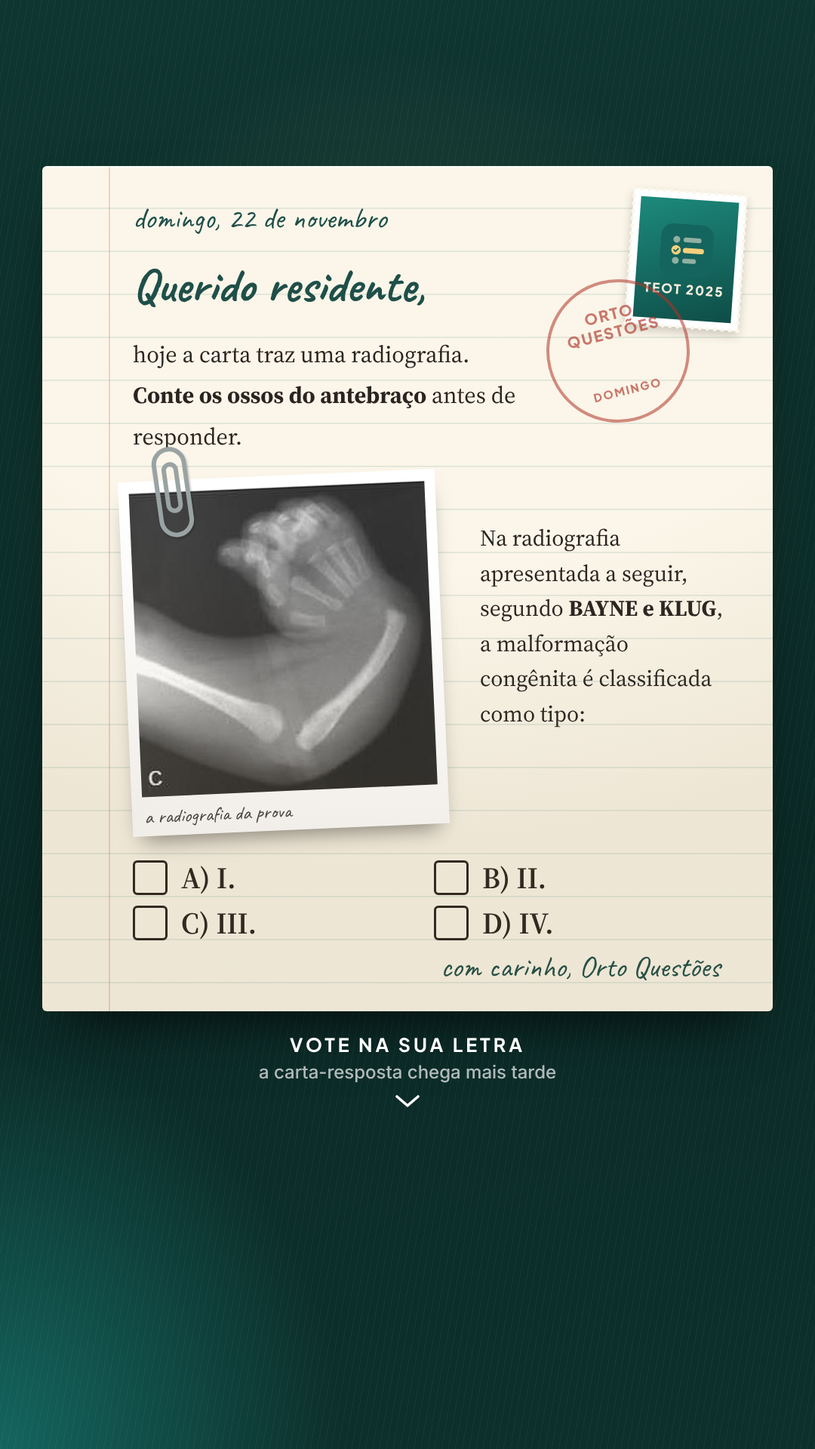
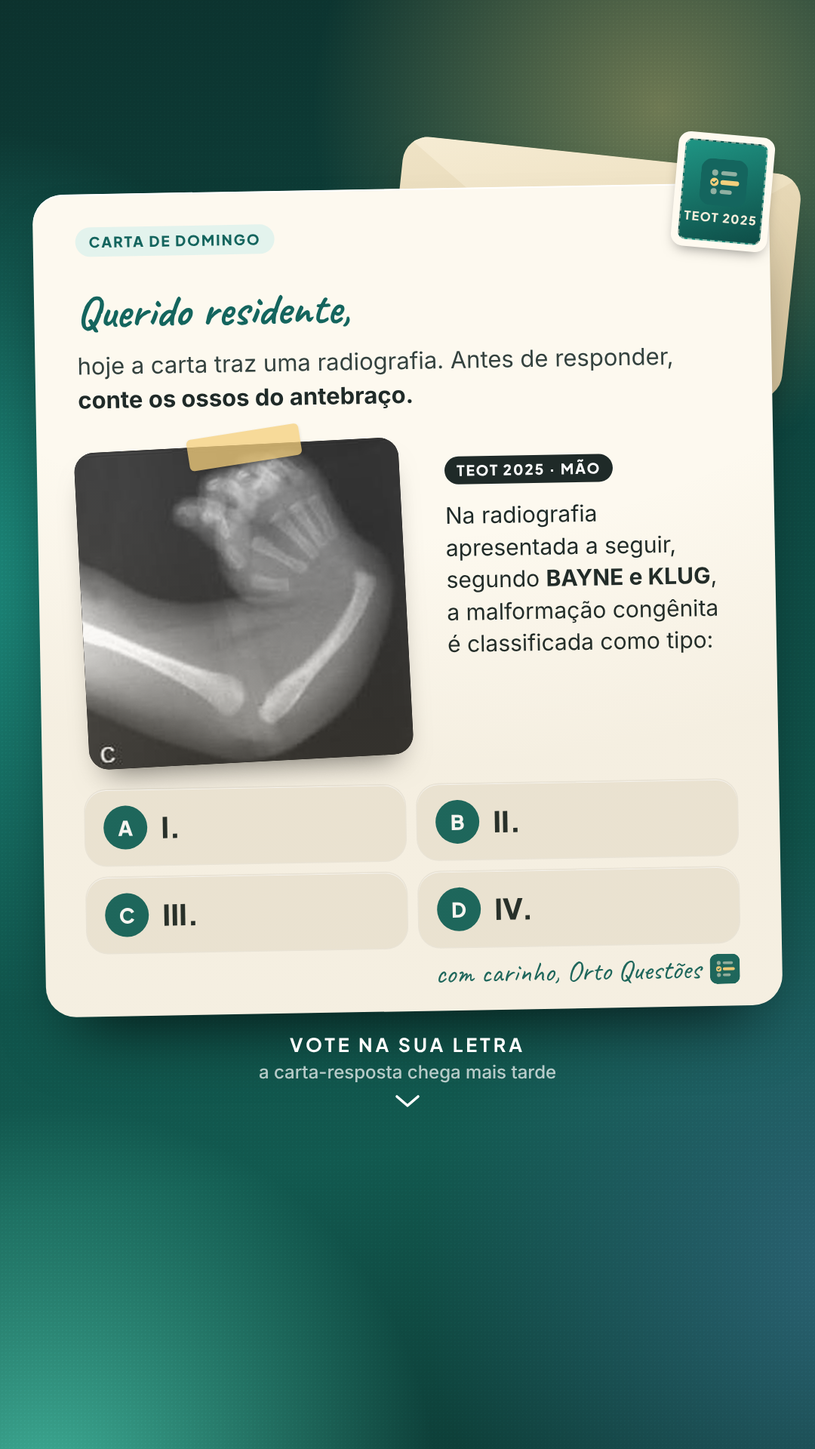
Carta de domingo refeita do zero e 3º story de propaganda com telas do site
Claude-Session: https://claude.ai/code/session_01GbKh11zCitYpbRvWcxSxNK

diff --git a/marketing/instagram/posts/2026-11-22-carta-bayne-klug/stories.html b/marketing/instagram/posts/2026-11-22-carta-bayne-klug/stories.html
@@ -1,52 +1,98 @@
 <!doctype html>
-<html lang="pt-BR"><head><meta charset="utf-8"><title>Carta de domingo — deficiência radial, BAYNE e KLUG, TEOT 2025 (stories)</title>
-<!-- Stories com alternativas (guia: estilos/STORIES-COM-ALTERNATIVAS.md), temática "carta de domingo": papel de carta
-     creme sobre a mesa verde-noite, a radiografia presa com clipe, alternativas como quadradinhos para marcar.
-     Área livre (sem caixa) para a enquete no story 1.
+<html lang="pt-BR"><head><meta charset="utf-8"><title>Carta de domingo — BAYNE e KLUG, TEOT 2025 (stories, versão 2)</title>
+<!-- Stories com alternativas (guia: estilos/STORIES-COM-ALTERNATIVAS.md), temática "carta de domingo", refeita do zero
+     a pedido do Tales (22/11/2026): cantos arredondados, letra de leitura fácil (Plus Jakarta e Inter; a letra de mão
+     só no cumprimento e na assinatura), mais organização, e um 3º story de propaganda com telas reais do site.
      Questão real: mao-0406 (TEOT 2025), gabarito oficial D (tipo IV).
      Fontes: Green's Operative Hand Surgery, 7ª ed., cap. 38, Tabela 38.2, p. 1329 e Fig. 38.1, p. 1330;
-     Tachdjian's Pediatric Orthopaedics, 6ª ed., cap. 12, p. 341. -->
+     Tachdjian's Pediatric Orthopaedics, 6ª ed., cap. 12, p. 341.
+     Story 3: telas reais já capturadas (comentário: posts/2026-11-13-errata-metastases; Atlas 3D: posts/2026-10-27-atlas-3d;
+     Biblioteca: resumos-biblioteca; cronograma: marketing/kit/telas), conta de exemplo, por isso "Telas ilustrativas".
+     "Até 20 questões comentadas por dia, grátis": LIMITE_GRATIS_ATUAL = 20 em src/config.ts. -->
 <link rel="stylesheet" href="../../estilos/stories-com-alternativas/base.css">
 <style>
-section { color: #2a2420;
+section { color: #1f2a28; }
+.mesa { position: absolute; inset: -60px; z-index: -2;
   background:
-    radial-gradient(70% 45% at 50% 35%, rgba(244,207,124,.16) 0%, rgba(244,207,124,0) 70%),
-    radial-gradient(60% 40% at 0% 100%, #14655E 0%, rgba(20,101,94,0) 70%),
-    linear-gradient(175deg, #0f3631 0%, #0b2a26 60%, #0d302c 100%); }
-section::before { content: ''; position: absolute; inset: 0; z-index: -1; opacity: .08;
-  background-image: repeating-linear-gradient(100deg, rgba(255,255,255,.5) 0 1px, transparent 1px 9px); }
-.carta { position: absolute; left: 56px; right: 56px; background: #fbf6e9;
-  background-image:
-    repeating-linear-gradient(180deg, transparent 0 55px, rgba(20,101,94,.10) 55px 57px),
-    linear-gradient(90deg, transparent 88px, rgba(174,51,38,.18) 88px 90px, transparent 90px);
-  box-shadow: 0 40px 70px -30px rgba(0,0,0,.7), 0 2px 0 rgba(255,255,255,.6) inset; border-radius: 6px; }
-.carta::after { content: ''; position: absolute; inset: 0; pointer-events: none; border-radius: 6px;
-  background: radial-gradient(120% 80% at 50% 0%, rgba(255,255,255,0) 60%, rgba(120,90,40,.10) 100%); }
-.mao { font-family: Caveat; color: #1f4f49; }
-.serif { font-family: Source; }
-.selo { position: absolute; width: 150px; height: 180px; background: #fff; padding: 10px; transform: rotate(4deg);
-  outline: 5px dotted #fbf6e9; outline-offset: -3px;
-  box-shadow: 0 6px 14px rgba(0,0,0,.2); }
-.selo .in { width: 100%; height: 100%; background: linear-gradient(160deg, #1d8a7c, #0e4d47); display: grid; place-items: center; align-content: center; gap: 8px; color: #F6EEDB; }
-.selo svg { width: 70px; height: 70px; }
-.selo b { font: 800 17px/1 Jakarta; letter-spacing: 2px; }
-.carimbo { position: absolute; width: 190px; height: 190px; border-radius: 50%; border: 4px solid rgba(174,51,38,.55); color: rgba(174,51,38,.65);
-  display: grid; place-items: center; text-align: center; font: 800 20px/1.2 Jakarta; letter-spacing: 2px; transform: rotate(-14deg); }
-.foto { position: absolute; background: #fff; padding: 14px 14px 52px; box-shadow: 0 18px 30px -14px rgba(0,0,0,.5); }
+    radial-gradient(55% 32% at 78% 10%, rgba(244,207,124,.42) 0%, rgba(244,207,124,0) 70%),
+    radial-gradient(60% 40% at 0% 40%, #1d8a7c 0%, rgba(29,138,124,0) 72%),
+    radial-gradient(70% 40% at 100% 85%, #2b6273 0%, rgba(43,98,115,0) 70%),
+    radial-gradient(60% 35% at 10% 100%, #3fae96 0%, rgba(63,174,150,0) 72%),
+    linear-gradient(170deg, #0c302c 0%, #0f4c45 45%, #12594f 75%, #0c3530 100%); }
+.grao { position: absolute; inset: 0; z-index: -1; opacity: .06; mix-blend-mode: overlay;
+  background-image: radial-gradient(#fff 1px, transparent 1px); background-size: 5px 5px; }
+
+/* O envelope atrás da carta */
+.envelope { position: absolute; border-radius: 34px; background: linear-gradient(160deg, #efe3c6, #dcc9a0);
+  box-shadow: 0 30px 60px -30px rgba(0,0,0,.7); overflow: hidden; }
+.envelope::before { content: ''; position: absolute; left: 0; right: 0; top: 0; height: 62%;
+  background: linear-gradient(160deg, #f6ecd4, #e6d6b0); clip-path: polygon(0 0, 100% 0, 50% 100%); }
+.selo { position: absolute; width: 128px; height: 152px; border-radius: 16px; padding: 9px; background: #fffaf0;
+  box-shadow: 0 8px 18px -8px rgba(0,0,0,.5); transform: rotate(5deg); }
+.selo .in { width: 100%; height: 100%; border-radius: 10px; background: linear-gradient(160deg, #1f9584, #0e4d47);
+  display: grid; place-items: center; align-content: center; gap: 8px; color: #F6EEDB; border: 2px dashed rgba(246,238,219,.5); }
+.selo svg { width: 62px; height: 62px; }
+.selo b { font: 800 16px/1 Jakarta; letter-spacing: 1.5px; }
+
+/* A carta */
+.carta { position: absolute; left: 52px; right: 52px; border-radius: 40px; background: #fdf9ef;
+  box-shadow: 0 50px 90px -40px rgba(0,0,0,.75), 0 2px 0 #fff inset; }
+.carta::after { content: ''; position: absolute; inset: 0; border-radius: inherit; pointer-events: none;
+  background: radial-gradient(120% 70% at 50% 0%, rgba(255,255,255,0) 60%, rgba(150,120,60,.08) 100%); }
+.cab { position: absolute; left: 56px; right: 56px; top: 44px; display: flex; align-items: center; gap: 14px; }
+.cab svg { width: 46px; height: 46px; border-radius: 12px; }
+.cab .pil { padding: 10px 18px; border-radius: 999px; background: #e3f3ed; color: var(--verde); font: 800 19px/1 Jakarta; letter-spacing: 2px; text-transform: uppercase; }
+.cab .data { margin-left: auto; font: 600 23px/1 Inter; color: #7a8784; }
+.mao { font-family: Caveat; color: #14655E; }
+.txt { font: 400 31px/1.45 Inter; color: #34423f; }
+.txt b { color: #1f2a28; font-weight: 700; }
+.foto { position: absolute; border-radius: 26px; overflow: hidden; background: #000; box-shadow: 0 24px 40px -22px rgba(0,0,0,.6); }
 .foto img { display: block; width: 100%; height: 100%; object-fit: cover; }
-.foto span { position: absolute; left: 16px; right: 16px; bottom: 12px; font: 400 26px/1 Caveat; color: #444; }
-.clipe { position: absolute; width: 46px; height: 120px; border: 6px solid #9aa3a3; border-radius: 24px; box-shadow: 1px 2px 3px rgba(0,0,0,.25); }
-.clipe::after { content: ''; position: absolute; left: 6px; right: 6px; top: 14px; bottom: 26px; border: 6px solid #9aa3a3; border-radius: 16px; }
-.caixas { display: grid; grid-template-columns: 1fr 1fr; gap: 14px 30px; }
-.cx { display: flex; align-items: center; gap: 18px; font: 600 40px/1 Source; color: #2a2420; }
-.cx i { width: 46px; height: 46px; border: 3.5px solid #2a2420; border-radius: 6px; flex: none; position: relative; }
-.cx i.x::before, .cx i.x::after { content: ''; position: absolute; left: -6px; right: -6px; top: 18px; height: 5px; border-radius: 3px; background: #c0392b; transform: rotate(45deg); }
-.cx i.x::after { transform: rotate(-45deg); }
-.cx.no { opacity: .45; }
+.fita { position: absolute; width: 150px; height: 42px; border-radius: 6px; background: rgba(244,207,124,.75); transform: rotate(-8deg);
+  box-shadow: 0 2px 4px rgba(0,0,0,.12); }
+.tag { display: inline-block; padding: 9px 16px; border-radius: 999px; background: #1f2a28; color: #fff; font: 800 19px/1 Jakarta; letter-spacing: 2px; }
+.alts { position: absolute; left: 56px; right: 56px; display: grid; grid-template-columns: 1fr 1fr; gap: 16px; }
+.alt { display: flex; align-items: center; gap: 18px; height: 100px; padding: 0 24px; border-radius: 28px; background: #f1ebdd;
+  font: 800 38px/1 Jakarta; color: #1f2a28; box-shadow: 0 1px 0 rgba(255,255,255,.9) inset, 0 0 0 1.5px rgba(31,42,40,.06); }
+.alt .l { width: 58px; height: 58px; border-radius: 50%; display: grid; place-items: center; background: var(--verde); color: #fff; font: 800 27px/1 Jakarta; flex: none; }
+.alt.certa { background: linear-gradient(160deg, #fff4d4, #f8dfa0); }
+.alt.certa .l { background: linear-gradient(160deg, #f8dc92, #dcaa45); color: #4a3a12; }
+.alt.no { opacity: .45; }
+.assin { position: absolute; right: 56px; display: flex; align-items: center; gap: 12px; }
+.assin svg { width: 40px; height: 40px; border-radius: 10px; }
 .dica .t { color: #fff; }
-.dica .s { color: rgba(255,255,255,.8); }
-.botao { display: inline-flex; align-items: center; justify-content: center; height: 96px; padding: 0 56px; border-radius: 999px;
-  font: 800 36px/1 Jakarta; color: #fff; background: linear-gradient(170deg, #1f9584, #14655E); box-shadow: 0 18px 30px -16px rgba(0,0,0,.5); }
+.dica .s { color: rgba(255,255,255,.82); }
+.fonte { font: 400 18px/1.3 Inter; color: #7a8784; }
+.painel { position: absolute; border-radius: 28px; background: #f1ebdd; padding: 26px 30px; }
+.escala { display: grid; grid-template-columns: repeat(4, 1fr); gap: 12px; }
+.escala div { border-radius: 20px; background: #fff; padding: 14px 10px; text-align: center; font: 500 20px/1.25 Inter; color: #4a5653; box-shadow: 0 0 0 1.5px rgba(31,42,40,.07); }
+.escala b { display: block; font: 800 40px/1 Jakarta; color: var(--verde); margin-bottom: 6px; }
+.escala div.on { background: linear-gradient(160deg, #fff4d4, #f8dfa0); }
+.escala div.on b { color: #8a6514; }
+.legenda3 { display: grid; grid-template-columns: 1fr 1fr 1.25fr; gap: 10px; }
+.legenda3 div { font: 500 19px/1.3 Inter; color: #4a5653; }
+.legenda3 b { display: block; font: 800 21px/1.1 Jakarta; color: #1f2a28; margin-bottom: 4px; }
+
+/* Story 3: a vitrine */
+.vidro { position: absolute; border-radius: 40px; background: linear-gradient(150deg, rgba(255,255,255,.2), rgba(255,255,255,.07));
+  border: 1.5px solid rgba(255,255,255,.32); backdrop-filter: blur(30px) saturate(150%);
+  box-shadow: 0 40px 80px -40px rgba(0,0,0,.7), 0 1.5px 0 rgba(255,255,255,.4) inset; }
+.iphone { position: absolute; border-radius: 64px; padding: 14px; background: linear-gradient(160deg, #2b3533, #0d1312);
+  box-shadow: 0 50px 90px -30px rgba(0,0,0,.8), 0 0 0 2px rgba(255,255,255,.12) inset; }
+.iphone .tela { width: 100%; height: 100%; border-radius: 52px; overflow: hidden; background: #fff; position: relative; }
+.iphone .tela img { display: block; width: 100%; height: 100%; object-fit: cover; object-position: top; }
+.iphone .ilha { position: absolute; left: 50%; top: 16px; width: 120px; height: 34px; margin-left: -60px; border-radius: 20px; background: #0d1312; z-index: 2; }
+.print { position: absolute; border-radius: 30px; overflow: hidden; background: #0e3a35; border: 6px solid #fdf9ef;
+  box-shadow: 0 30px 60px -28px rgba(0,0,0,.8); }
+.print img { display: block; width: 100%; height: 100%; object-fit: cover; }
+.print span { position: absolute; left: 14px; bottom: 14px; padding: 8px 14px; border-radius: 999px; background: rgba(253,249,239,.95); color: #1f2a28; font: 800 20px/1 Jakarta; }
+.recurso { display: flex; align-items: center; gap: 16px; font: 600 25px/1.25 Inter; color: #fff; }
+.recurso + .recurso { margin-top: 16px; }
+.recurso i { width: 46px; height: 46px; border-radius: 14px; flex: none; display: grid; place-items: center; background: rgba(244,207,124,.18); border: 1.5px solid rgba(244,207,124,.45); }
+.recurso i svg { width: 24px; height: 24px; }
+.botao { position: absolute; display: flex; align-items: center; justify-content: center; height: 108px; border-radius: 999px;
+  font: 800 40px/1 Jakarta; color: #13302c; background: linear-gradient(170deg, #f9e2a6, #e8bf62);
+  box-shadow: 0 26px 50px -24px rgba(0,0,0,.85), 0 2px 0 rgba(255,255,255,.6) inset; }
 </style></head>
 <body>
 <svg width="0" height="0" style="position:absolute"><defs>
@@ -57,28 +103,34 @@ section::before { content: ''; position: absolute; inset: 0; z-index: -1; opacit
     <path d="M26 50.2l2.9 2.9 5.2-5.6" fill="none" stroke="#14655E" stroke-width="2.6" stroke-linecap="round" stroke-linejoin="round"/>
   </symbol>
   <symbol id="seta" viewBox="0 0 36 20"><path d="M4 4l14 12L32 4" fill="none" stroke="#fff" stroke-width="3.6" stroke-linecap="round" stroke-linejoin="round"/></symbol>
+  <symbol id="ok" viewBox="0 0 24 24"><path d="M5 12.5l4.5 4.5L19 7.5" fill="none" stroke="#F4CF7C" stroke-width="3" stroke-linecap="round" stroke-linejoin="round"/></symbol>
 </defs></svg>
 
-<!-- ============ STORY 1 (7h ou 9h): a carta com a questão ============ -->
+<!-- ============ STORY 1 (manhã): a carta com a questão ============ -->
 <section id="s1-questao">
-  <div class="carta" style="top:220px; height:1120px;">
-    <div class="selo" style="right:40px; top:34px;"><div class="in"><svg viewBox="0 0 100 100"><use href="#ladrilho"/></svg><b>TEOT 2025</b></div></div>
-    <div class="carimbo" style="right:110px; top:150px;">ORTO<br>QUESTÕES<br><span style="font-size:15px;">DOMINGO</span></div>
-    <p class="mao" style="position:absolute; left:120px; top:44px; font-size:40px;">domingo, 22 de novembro</p>
-    <p class="mao" style="position:absolute; left:120px; top:118px; font-size:64px; font-weight:700;">Querido residente,</p>
-    <p class="serif" style="position:absolute; left:120px; right:330px; top:222px; font-size:31px; line-height:1.75;">hoje a carta traz uma radiografia. <b>Conte os ossos do antebraço</b> antes de responder.</p>
+  <div class="mesa"></div><div class="grao"></div>
+  <div class="envelope" style="left:520px; right:30px; top:205px; height:300px; transform:rotate(6deg);"></div>
+  <div class="selo" style="right:58px; top:178px; z-index:3;"><div class="in"><svg viewBox="0 0 100 100"><use href="#ladrilho"/></svg><b>TEOT 2025</b></div></div>
 
-    <div class="foto" style="left:110px; width:420px; height:470px; top:410px; transform:rotate(-2.5deg);"><img src="img/questao.png" alt=""><span>a radiografia da prova</span></div>
-    <div class="clipe" style="left:150px; top:372px; transform:rotate(-8deg);"></div>
-    <p class="serif" style="position:absolute; left:580px; right:56px; top:470px; font-size:30px; line-height:1.55;">Na radiografia apresentada a seguir, segundo <b>BAYNE e KLUG</b>, a malformação congênita é classificada como tipo:</p>
+  <div class="carta" style="top:250px; height:1090px; transform:rotate(-1deg);">
+    <div class="cab"><span class="pil">Carta de domingo</span></div>
+    <p class="mao" style="position:absolute; left:56px; top:118px; font-size:60px; font-weight:700;">Querido residente,</p>
+    <p class="txt" style="position:absolute; left:56px; right:56px; top:206px;">hoje a carta traz uma radiografia. Antes de responder, <b>conte os ossos do antebraço.</b></p>
 
-    <div class="caixas" style="position:absolute; left:120px; right:80px; top:920px;">
-      <div class="cx"><i></i>A) I.</div>
-      <div class="cx"><i></i>B) II.</div>
-      <div class="cx"><i></i>C) III.</div>
-      <div class="cx"><i></i>D) IV.</div>
+    <div class="foto" style="left:56px; width:430px; height:420px; top:336px; transform:rotate(-2deg);"><img src="img/questao.png" alt=""></div>
+    <div class="fita" style="left:200px; top:318px;"></div>
+    <div style="position:absolute; left:540px; right:56px; top:356px;">
+      <span class="tag">TEOT 2025 · MÃO</span>
+      <p class="txt" style="margin-top:20px; font-size:30px; line-height:1.42; color:#1f2a28;">Na radiografia apresentada a seguir, segundo <b>BAYNE e KLUG</b>, a malformação congênita é classificada como tipo:</p>
     </div>
-    <p class="mao" style="position:absolute; right:70px; bottom:34px; font-size:40px;">com carinho, Orto Questões</p>
+
+    <div class="alts" style="top:790px;">
+      <div class="alt"><span class="l">A</span>I.</div>
+      <div class="alt"><span class="l">B</span>II.</div>
+      <div class="alt"><span class="l">C</span>III.</div>
+      <div class="alt"><span class="l">D</span>IV.</div>
+    </div>
+    <div class="assin" style="bottom:26px;"><span class="mao" style="font-size:38px;">com carinho, Orto Questões</span><svg viewBox="0 0 100 100"><use href="#ladrilho"/></svg></div>
   </div>
 
   <div class="dica" style="top:1372px;">
@@ -88,25 +140,62 @@ section::before { content: ''; position: absolute; inset: 0; z-index: -1; opacit
   </div>
 </section>
 
-<!-- ============ STORY 2 (18h30): a carta-resposta com o livro e o convite ============ -->
+<!-- ============ STORY 2 (tarde): a carta-resposta ============ -->
 <section id="s2-resposta">
-  <div class="carta" style="top:220px; height:1350px;">
-    <div class="selo" style="right:40px; top:34px;"><div class="in"><svg viewBox="0 0 100 100"><use href="#ladrilho"/></svg><b>RESPOSTA</b></div></div>
-    <p class="mao" style="position:absolute; left:120px; top:44px; font-size:40px;">mais tarde, no mesmo domingo</p>
-    <p class="mao" style="position:absolute; left:120px; top:118px; font-size:60px; font-weight:700;">Querido residente,</p>
-    <p class="serif" style="position:absolute; left:120px; right:220px; top:220px; font-size:31px; line-height:1.75;">um osso só no antebraço, e ele é a ulna. O rádio não existe:</p>
-    <div class="cx" style="position:absolute; left:120px; top:336px; font-size:44px;"><i class="x"></i><span><b>D) IV</b>: ausência completa do rádio.</span></div>
+  <div class="mesa" style="transform:scaleX(-1);"></div><div class="grao"></div>
+  <div class="selo" style="right:58px; top:178px; z-index:3;"><div class="in"><svg viewBox="0 0 100 100"><use href="#ladrilho"/></svg><b>RESPOSTA</b></div></div>
 
-    <div class="foto" style="left:96px; right:96px; height:390px; top:430px; transform:rotate(1deg); padding-bottom:58px;"><img src="img/green-def.png" alt="" style="object-fit:cover;"><span style="font-size:24px;">Green 7ª ed., Fig. 38.1: D tipo 2 (rádio fino, mas inteiro) · E tipo 3 (só um toco) · F tipo 4</span></div>
+  <div class="carta" style="top:250px; height:1420px; transform:rotate(.6deg);">
+    <div class="cab"><span class="pil">Carta-resposta</span></div>
+    <p class="mao" style="position:absolute; left:56px; top:118px; font-size:60px; font-weight:700;">Querido residente,</p>
+    <p class="txt" style="position:absolute; left:56px; right:56px; top:206px;">o antebraço tem <b>um osso só</b>, e ele é a ulna. Não há rádio, nem um toco dele.</p>
+    <div class="alt certa" style="position:absolute; left:56px; right:56px; top:316px; height:104px; font-size:36px;"><span class="l">D</span>IV: ausência completa do rádio</div>
 
-    <p class="serif" style="position:absolute; left:120px; right:70px; top:868px; font-size:29px; line-height:1.75;">
-      <b>No Green</b>, o tipo 4 é o rádio <b>ausente distal e proximalmente</b> (7ª ed., Tabela 38.2, p. 1329). Sem o rádio distal, some <b>80% do apoio do carpo</b>, e a mão cai para o lado radial (Tachdjian, 6ª ed., cap. 12, p. 341).</p>
-    <p class="serif" style="position:absolute; left:120px; right:70px; top:1110px; font-size:28px; line-height:1.75; color:#1f4f49;">
-      Conte os ossos: rádio curto <b>= 1</b> · em miniatura <b>= 2</b> · só um toco proximal <b>= 3</b> · só a ulna <b>= 4</b>.</p>
-    <p class="mao" style="position:absolute; left:120px; right:70px; top:1228px; font-size:38px; line-height:1.1;">P.S.: o comentário inteiro, com os outros tipos, está no site. É grátis para começar.</p>
+    <div class="foto" style="left:56px; right:56px; top:452px; height:360px;"><img src="img/green-def.png" alt=""></div>
+    <div class="legenda3" style="position:absolute; left:56px; right:56px; top:828px;">
+      <div><b>D · tipo 2</b>rádio fino, mas inteiro</div>
+      <div><b>E · tipo 3</b>só um toco proximal</div>
+      <div><b>F · tipo 4</b>só a ulna, como na prova</div>
+    </div>
+    <p class="fonte" style="position:absolute; left:56px; right:56px; top:912px;">Green's Operative Hand Surgery, 7ª ed., Fig. 38.1, p. 1330</p>
+
+    <div class="painel" style="left:56px; right:56px; top:964px;">
+      <p style="font:800 22px/1 Jakarta; letter-spacing:2.5px; color:var(--verde); text-transform:uppercase;">Segundo o Green</p>
+      <p class="txt" style="margin-top:12px; font-size:28px;">O tipo 4 é o rádio <b>ausente distal e proximalmente</b> (Tabela 38.2, p. 1329). Sem o rádio distal, some <b>80% do apoio do carpo</b>, e a mão cai para o lado radial (Tachdjian, 6ª ed., p. 341).</p>
+    </div>
+
+    <p style="position:absolute; left:56px; top:1244px; font:800 22px/1 Jakarta; letter-spacing:2.5px; color:#7a8784; text-transform:uppercase;">Conte os ossos</p>
+    <div class="escala" style="position:absolute; left:56px; right:56px; top:1282px;">
+      <div><b>1</b>rádio curto</div>
+      <div><b>2</b>rádio em miniatura</div>
+      <div><b>3</b>só um toco</div>
+      <div class="on"><b>4</b>só a ulna</div>
+    </div>
   </div>
-  <div style="position:absolute; left:0; right:0; top:1600px; text-align:center;">
-    <span class="botao">Treine grátis · ortoquestoes.com.br</span>
+  <p style="position:absolute; left:0; right:0; top:1704px; text-align:center; font:600 25px/1.3 Inter; color:rgba(255,255,255,.85);">No próximo story: o que mais tem no site</p>
+</section>
+
+<!-- ============ STORY 3 (noite): a vitrine do site ============ -->
+<section id="s3-convite">
+  <div class="mesa"></div><div class="grao"></div>
+  <div style="position:absolute; left:64px; right:64px; top:236px;">
+    <p style="font:800 22px/1 Jakarta; letter-spacing:3.5px; color:#a9ecd9; text-transform:uppercase;">P.S. da carta</p>
+    <h1 style="margin-top:16px; font:800 76px/1.02 Jakarta; letter-spacing:-2.6px; color:#fff;">Cada comentário é <span style="color:var(--ouro);">uma miniaula.</span></h1>
+    <p style="margin-top:18px; font:500 29px/1.4 Inter; color:rgba(255,255,255,.88);">A certa e cada errada explicadas, com o livro e a página.</p>
+    <div style="margin-top:22px; display:flex; flex-wrap:wrap; gap:10px;"><span style="padding:10px 16px; border-radius:999px; background:rgba(255,255,255,.12); border:1.5px solid rgba(255,255,255,.28); font:700 21px/1 Jakarta; color:#fff;">Caderno de erros</span><span style="padding:10px 16px; border-radius:999px; background:rgba(255,255,255,.12); border:1.5px solid rgba(255,255,255,.28); font:700 21px/1 Jakarta; color:#fff;">Flashcards</span><span style="padding:10px 16px; border-radius:999px; background:rgba(255,255,255,.12); border:1.5px solid rgba(255,255,255,.28); font:700 21px/1 Jakarta; color:#fff;">Simulados</span><span style="padding:10px 16px; border-radius:999px; background:rgba(255,255,255,.12); border:1.5px solid rgba(255,255,255,.28); font:700 21px/1 Jakarta; color:#fff;">Temas que mais caem</span></div>
   </div>
+
+  <div class="print" style="left:40px; width:470px; height:300px; top:680px; transform:rotate(-4deg);"><img src="img/tela-atlas.png" alt=""><span>Atlas 3D</span></div>
+  <div class="print" style="left:56px; width:470px; height:300px; top:1000px; transform:rotate(3deg);"><img src="img/tela-resumos.png" alt=""><span>Resumos dos capítulos</span></div>
+  <div class="print" style="left:70px; width:430px; height:230px; top:1320px; transform:rotate(-2deg);"><img src="img/tela-cronograma.png" alt="" style="object-position:50% 12%;"><span>Cronograma até a prova</span></div>
+
+  <div class="iphone" style="left:560px; width:470px; height:860px; top:680px; transform:rotate(3deg);">
+    <div class="ilha"></div>
+    <div class="tela"><img src="img/tela-comentario.png" alt=""></div>
+  </div>
+  <div style="position:absolute; left:600px; top:1556px; padding:10px 18px; border-radius:999px; background:rgba(253,249,239,.95); font:800 20px/1 Jakarta; color:#1f2a28; transform:rotate(3deg);">O comentário de verdade</div>
+
+  <div class="botao" style="left:64px; right:64px; top:1630px;">Comece a treinar grátis</div>
+  <p style="position:absolute; left:0; right:0; top:1760px; text-align:center; font:500 22px/1.3 Inter; color:rgba(255,255,255,.8);">Até 20 questões comentadas por dia · ortoquestoes.com.br · Telas ilustrativas</p>
 </section>
 </body></html>

diff --git a/marketing/instagram/posts/2026-11-22-carta-bayne-klug/LEGENDA.md b/marketing/instagram/posts/2026-11-22-carta-bayne-klug/LEGENDA.md
@@ -9,7 +9,8 @@ Modelo: `marketing/instagram/estilos/STORIES-COM-ALTERNATIVAS.md`. Questão `mao
 | Horário | Arquivo | O que é |
 |---|---|---|
 | 8h ou 9h | `dom22-1-questao.png` | A carta com a radiografia presa com clipe e as alternativas para marcar; **colocar a enquete A, B, C, D** na área livre |
-| 18h30 | `dom22-2-resposta.png` | A carta-resposta: D marcado, a Fig. 38.1 do Green (tipos 2, 3 e 4), o trecho do Green e do Tachdjian e o convite |
+| 13h | `dom22-2-resposta.png` | A carta-resposta: D, a Fig. 38.1 do Green (tipos 2, 3 e 4) com legenda, o trecho do Green e do Tachdjian e a escala "conte os ossos" |
+| 19h30 | `dom22-3-convite.png` | P.S. da carta: "Cada comentário é uma miniaula", telas reais (comentário, Atlas 3D, Resumos, Cronograma), as outras funções e "Comece a treinar grátis" |
 
 Na enquete, as opções são só as letras A, B, C e D. Sem figurinha de link. Stories não levam legenda.
 
@@ -18,3 +19,11 @@ Na enquete, as opções são só as letras A, B, C e D. Sem figurinha de link. S
 - Enunciado, alternativas e gabarito literais do acervo (`mao-0406`); trechos e números tirados do comentário (`conferido: false`, nada nas peças diz que foi revisado).
 - Fontes: Green 7ª ed., cap. 38, Tabela 38.2, p. 1329 e Fig. 38.1, p. 1330; Tachdjian 6ª ed., cap. 12, p. 341.
 - Área livre de pelo menos 450 px abaixo da dica no story 1; `conferir_pngs.py` sem problemas.
+
+## Versão 2 (22/11/2026)
+
+Refeita do zero a pedido do Tales: cantos arredondados, letra de leitura fácil (Plus Jakarta e Inter; a letra de mão
+só no cumprimento e na assinatura), carta organizada em blocos, e um 3º story de propaganda. As telas do story 3 são
+capturas reais já existentes, com a conta de exemplo ("Telas ilustrativas"): o comentário (`posts/2026-11-13-errata-metastases`),
+o Atlas 3D (`posts/2026-10-27-atlas-3d`), a Biblioteca (`resumos-biblioteca`) e o cronograma (`marketing/kit/telas`).
+"Até 20 questões comentadas por dia": `LIMITE_GRATIS_ATUAL = 20` em `src/config.ts` (verdade com o limite ligado ou desligado).
